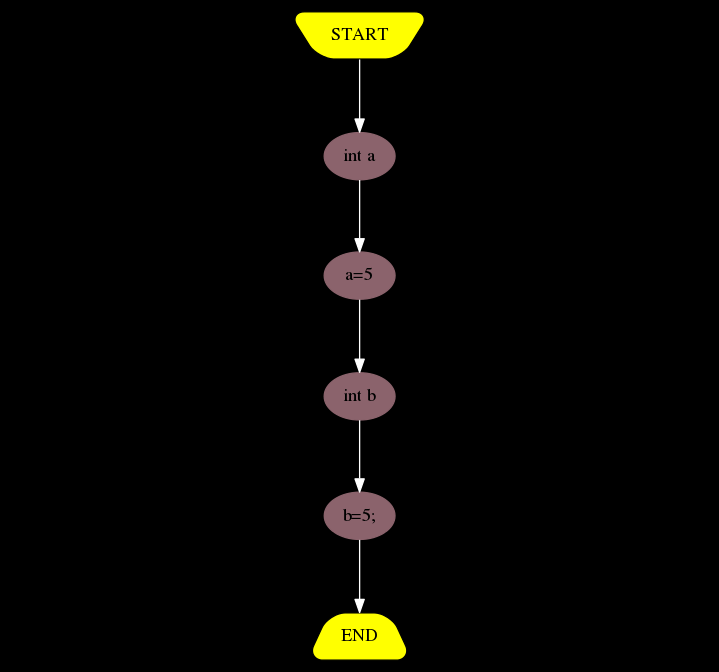
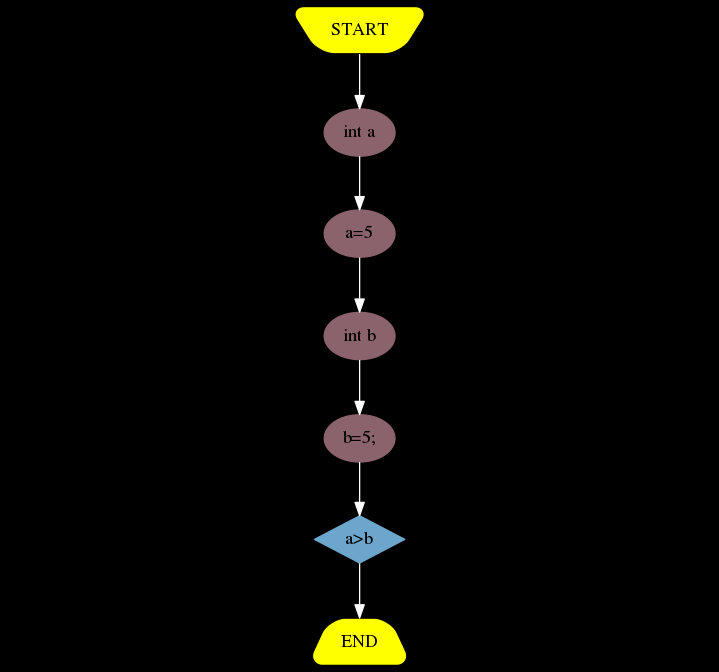
Made ifs kinda

Changed region(s): [[0.4284, 0.125, 0.5814, 0.8438], [0.3978, 0.0, 0.5814, 0.0938], [0.4284, 0.875, 0.5814, 1.0]]

diff --git a/main.c b/main.c
@@ -33,7 +33,7 @@ char* GraphAssignment(FILE *ofp, char *assignment, char *block, int counter)
 	memset(name,'\0',sizeof(name)); 
 	//strcat(name, block); 
 	sprintf(name, "%s_assignment%d", block,counter);
-	fprintf(ofp, "subgraph variable_int {node[shape=ellipse,color=pink4, label=\"%s\"]; %s }",assignment,name);
+	fprintf(ofp, "subgraph variable_int {node[shape=ellipse,color=pink4, label=\"%s\"]; %s; }",assignment,name);
 	//strcat(name, counter); 
 	return name;
 }
@@ -44,7 +44,9 @@ char* GraphBlock(FILE *ofp, Pblock *blockStructure, char *block, int counter)
 	memset(name,'\0',sizeof(name)); 
 	//strcat(name, block); 
 	sprintf(name, "%s_block%d", block,counter);
-	fprintf(ofp, "subgraph if {rank = same; node[shape=diamond,color=skyblue3, label=\" %s \"]; %s",blockStructure->condition,name);
+	// printf("%s,%s,%d\n\n",name, block, counter);
+	printf("%s\n",name);
+	fprintf(ofp, "subgraph if {rank = same; node[shape=diamond,color=skyblue3, label=\"%s\"]; %s;}",blockStructure->condition,name);
 	//strcat(name, counter); 
 	return name;
 }
@@ -84,6 +86,7 @@ void DecodeFunction(FILE *ofp, Pfunction function)
 	Paction action;
 	Pvariable variable;
 	Pblock *block = NULL;
+	char *currBlockName = (char*)malloc(sizeof(char) * 50);
 	char *assignment = (char*)malloc(sizeof(char) * 50);
 	char *prev = (char*)malloc(sizeof(char) * 50);	
 	char *curr = (char*)malloc(sizeof(char) * 50);
@@ -91,7 +94,7 @@ void DecodeFunction(FILE *ofp, Pfunction function)
 
 	int i;
 
-	for (i = 0; i < 4; ++i)
+	for (i = 0; i < 5; ++i)
 	{
 		ListPeekAt(&function.actions, &action, i);
 
@@ -107,13 +110,18 @@ void DecodeFunction(FILE *ofp, Pfunction function)
 				curr = GraphAssignment(ofp,assignment, "main", ListGetSize(&function.assignments));
 				ListRemoveFront(&function.assignments);
 				break;
-			// case BLOCK:
-			// 	ListPeekAt(&function.blocks, &block, 0);
-			// 	GraphVarInit(ofp, variable, "main", ListGetSize(&function.variables));
-			// 	ListRemoveFront(&function.variables);
-			// 	break;
+			case BLOCK:
+				block = (Pblock*)malloc(sizeof(Pblock));
+				ListPeekAt(&function.blocks, block, 0);
+				curr = currBlockName = GraphBlock(ofp, block, "main",ListGetSize(&function.blocks));
+				//ListRemoveFront(&function.variables);
+				break;
+			case BLOCKEND:
+				block = NULL;
+				break;
 		}
-		printf("%s->%s\n", prev,curr);
+
+		//printf("%s->%s\n", prev,curr);
 		AddConnection(prev,curr);
 		prev=curr;
 	}
